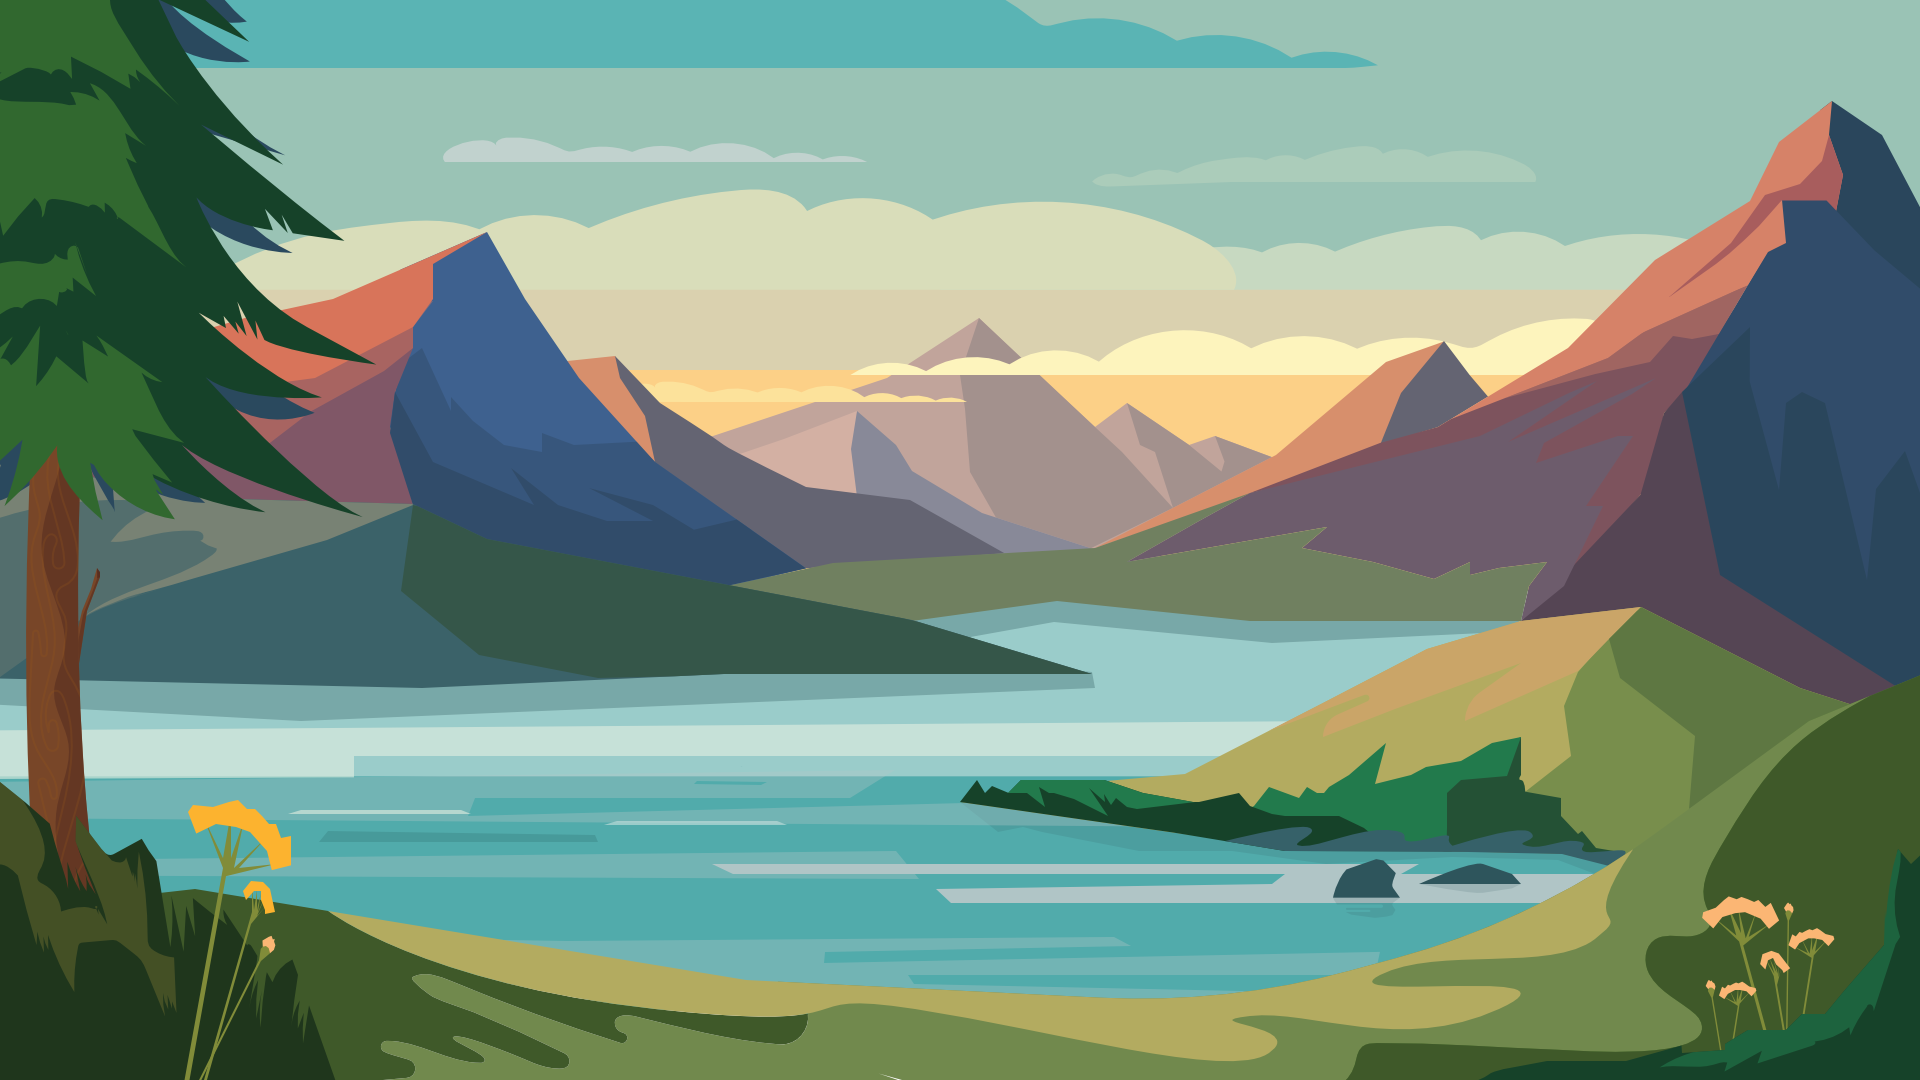
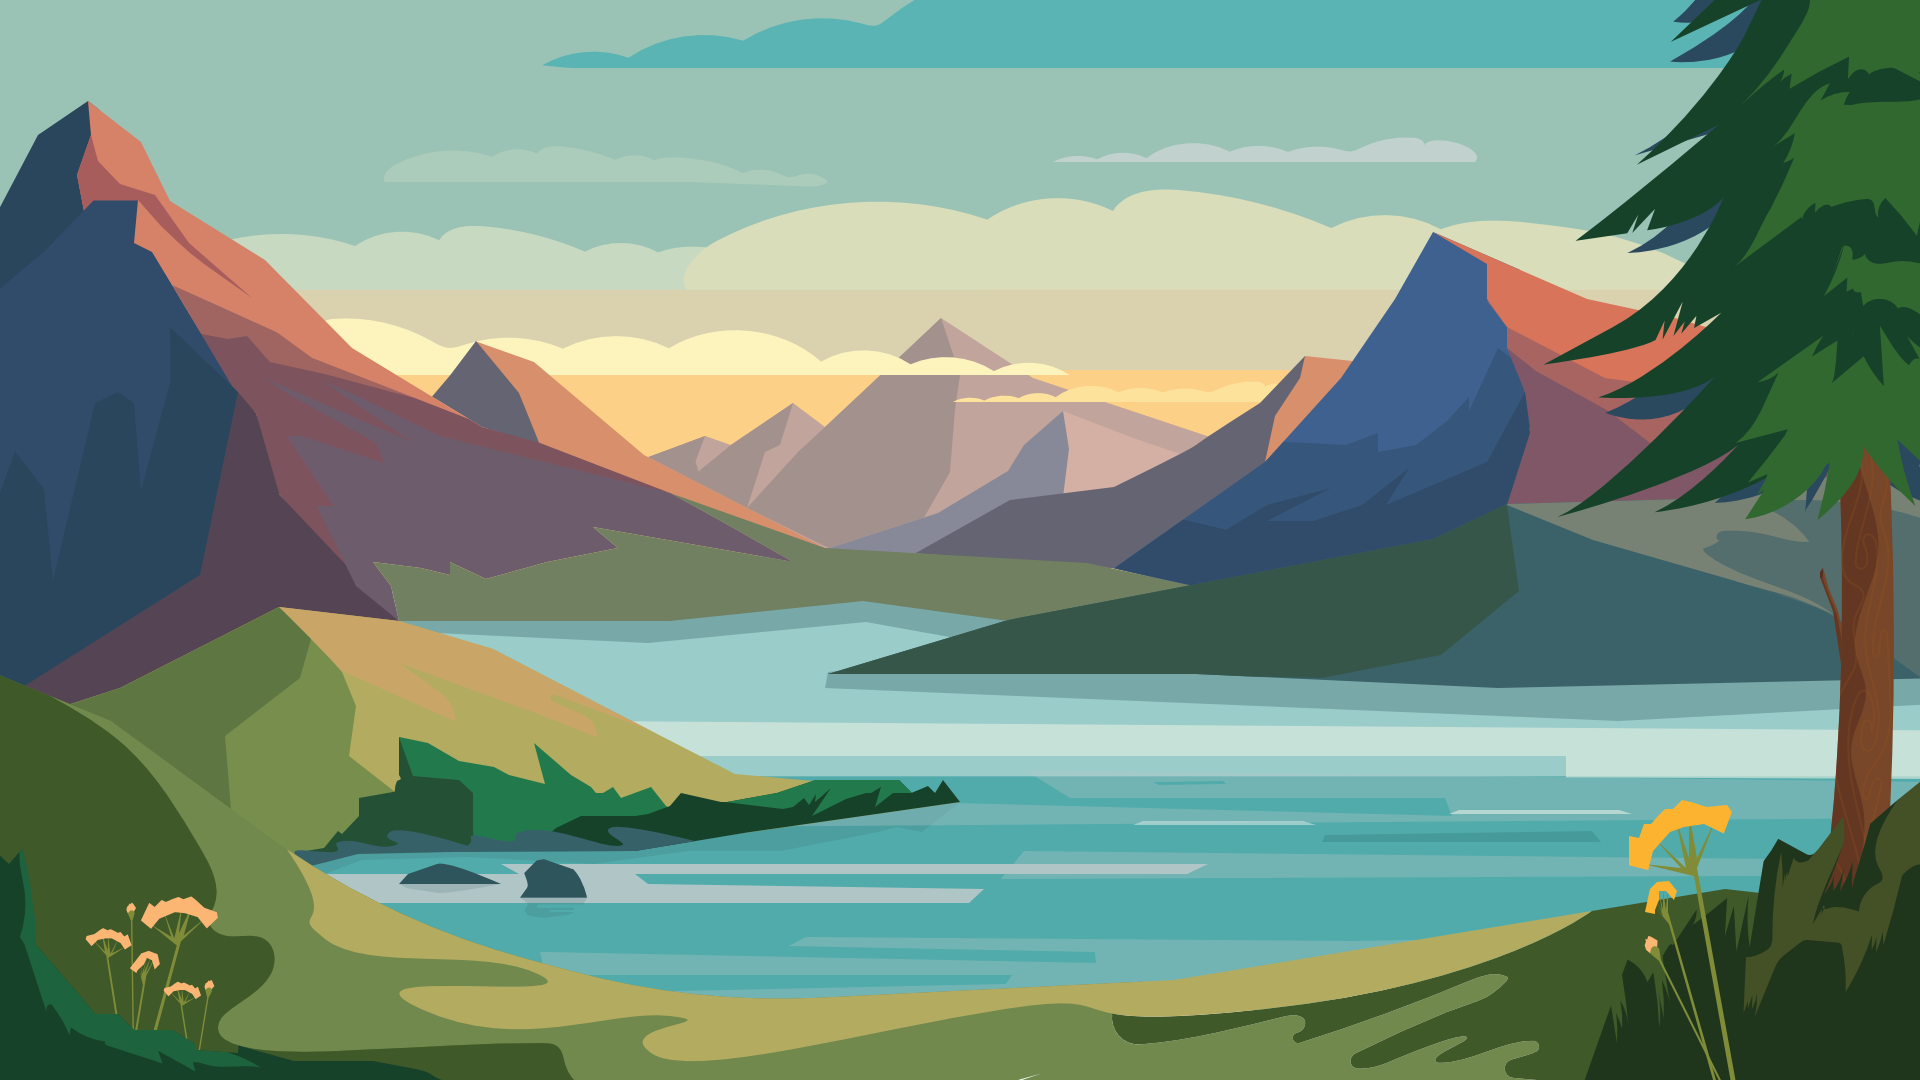
Cleans css and flips mountain image

diff --git a/styles/styles.scss b/styles/styles.scss
@@ -110,13 +110,11 @@ main {
 /*-------- TO DO LIST SECTON--------*/
 #to-do-section {
   // padding-top: 5rem; // We only need this if the navbar is fixed
-  width: clamp(330px, 20rem, 40rem);
-
+  width: 20rem;
   margin-top: 3rem;
   margin-bottom: 10rem;
   background-color: #f1f0e4;
   border-radius: 20px;
-  box-shadow: 3px -3px 10px #545f593b, -3px 0 10px #545f593b;
   box-shadow: 3px -3px 10px #545f590a, -3px 0 10px #545f590a;
 }
 
@@ -128,10 +126,11 @@ h3 {
   border-top-right-radius: 20px;
   padding: 1rem;
 }
-
+// INITIAL TO DO LIST BLOCK
 // The UL To Do list block
 div.ul-wrapper {
-  height: clamp(5rem, 16rem, 80rem);
+  // height: clamp(5rem, 16rem, 80rem);
+  height: 16rem;
   overflow-y: auto;
   ul {
     padding: 1rem;
@@ -181,7 +180,6 @@ input#newTaskInput {
   background-color: #fbfbf5a1;
   border-radius: 2px;
   border: 0px solid #555555;
-  // border-bottom-width: 1px;
   box-shadow: inset 2px 2px 3px #9e9e9e94;
   padding: 0.5rem;
   margin-top: 0.4rem;

diff --git a/styles/styles.css b/styles/styles.css
@@ -133,13 +133,11 @@ main {
 
 /*-------- TO DO LIST SECTON--------*/
 #to-do-section {
-  width: clamp(330px, 20rem, 40rem);
+  width: 20rem;
   margin-top: 3rem;
   margin-bottom: 10rem;
   background-color: #f1f0e4;
   border-radius: 20px;
-  -webkit-box-shadow: 3px -3px 10px #545f593b, -3px 0 10px #545f593b;
-          box-shadow: 3px -3px 10px #545f593b, -3px 0 10px #545f593b;
   -webkit-box-shadow: 3px -3px 10px #545f590a, -3px 0 10px #545f590a;
           box-shadow: 3px -3px 10px #545f590a, -3px 0 10px #545f590a;
 }
@@ -154,7 +152,7 @@ h3 {
 }
 
 div.ul-wrapper {
-  height: clamp(5rem, 16rem, 80rem);
+  height: 16rem;
   overflow-y: auto;
 }
 
